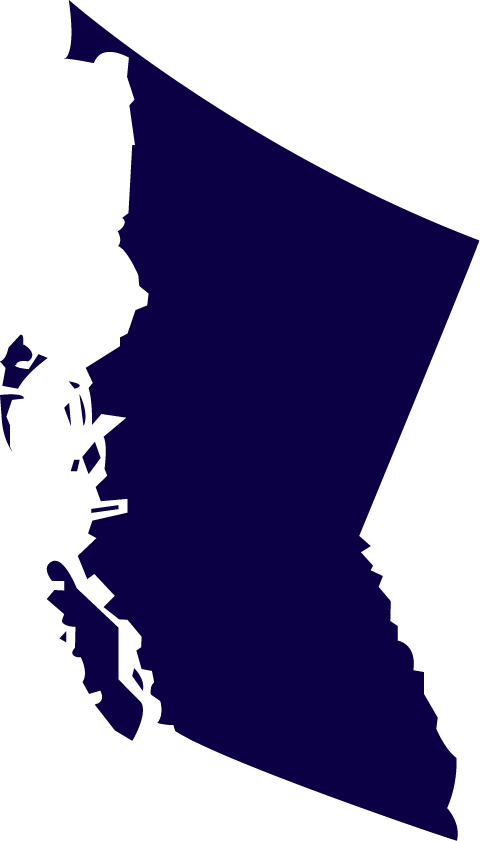
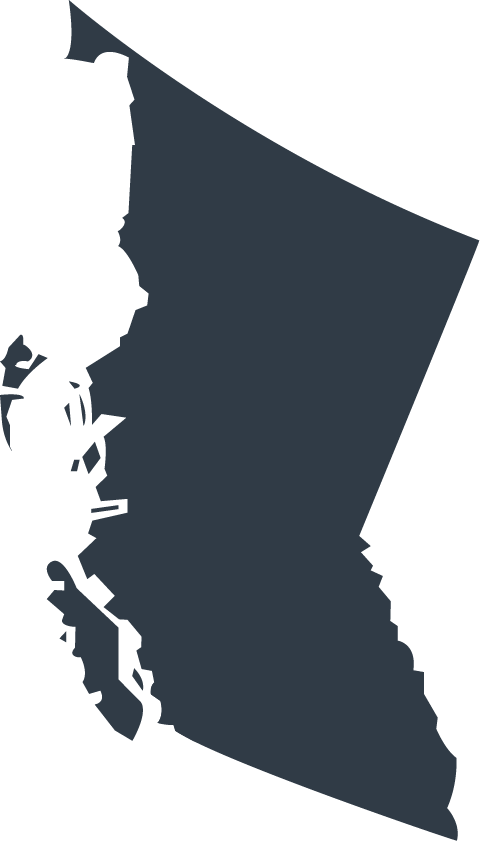
added new map images and updated scripts to change map images on hover

diff --git a/themes/best-challenge/js/scripts.js b/themes/best-challenge/js/scripts.js
@@ -77,19 +77,22 @@
 
   //change bc map on click on Participants page 
   $('#van-map').hide();
+  $('#bc-map').hide();
   $('#vancouver').on('mouseover', function (event) {
     event.preventDefault();
-    $('#bc-map').hide();
+    $('#default-map').hide();
     $('#van-map').show();
   });
 
-  $('#vancouver').mouseleave(function () {
+  $('#vancouver').mouseleave(function (event) {
     event.preventDefault();
     $('#bc-map').hide();
-    $('#van-map').show();
+    $('#van-map').hide();
+    $('#default-map').show();
   });
 
-  $('#bc').on('mouseover', function (event) {
+  $('#bc').on('mouseover', function () {
+    $('#default-map').hide();
     $('#van-map').hide();
     $('#bc-map').show();
   });

diff --git a/themes/best-challenge/page-participants.php b/themes/best-challenge/page-participants.php
@@ -25,6 +25,7 @@ get_header(); ?>
 			</div>	
 			<div class= "participants">
 				<div class="bc-map">
+					<img id="default-map" src="<?php echo get_template_directory_uri() ?>/assets/images/maps/bc-default.png">
 					<img id="bc-map" src="<?php echo get_template_directory_uri() ?>/assets/images/maps/bc.png">
 					<img id="van-map" src="<?php echo get_template_directory_uri() ?>/assets/images/maps/metrovan.png">
 				</div>
